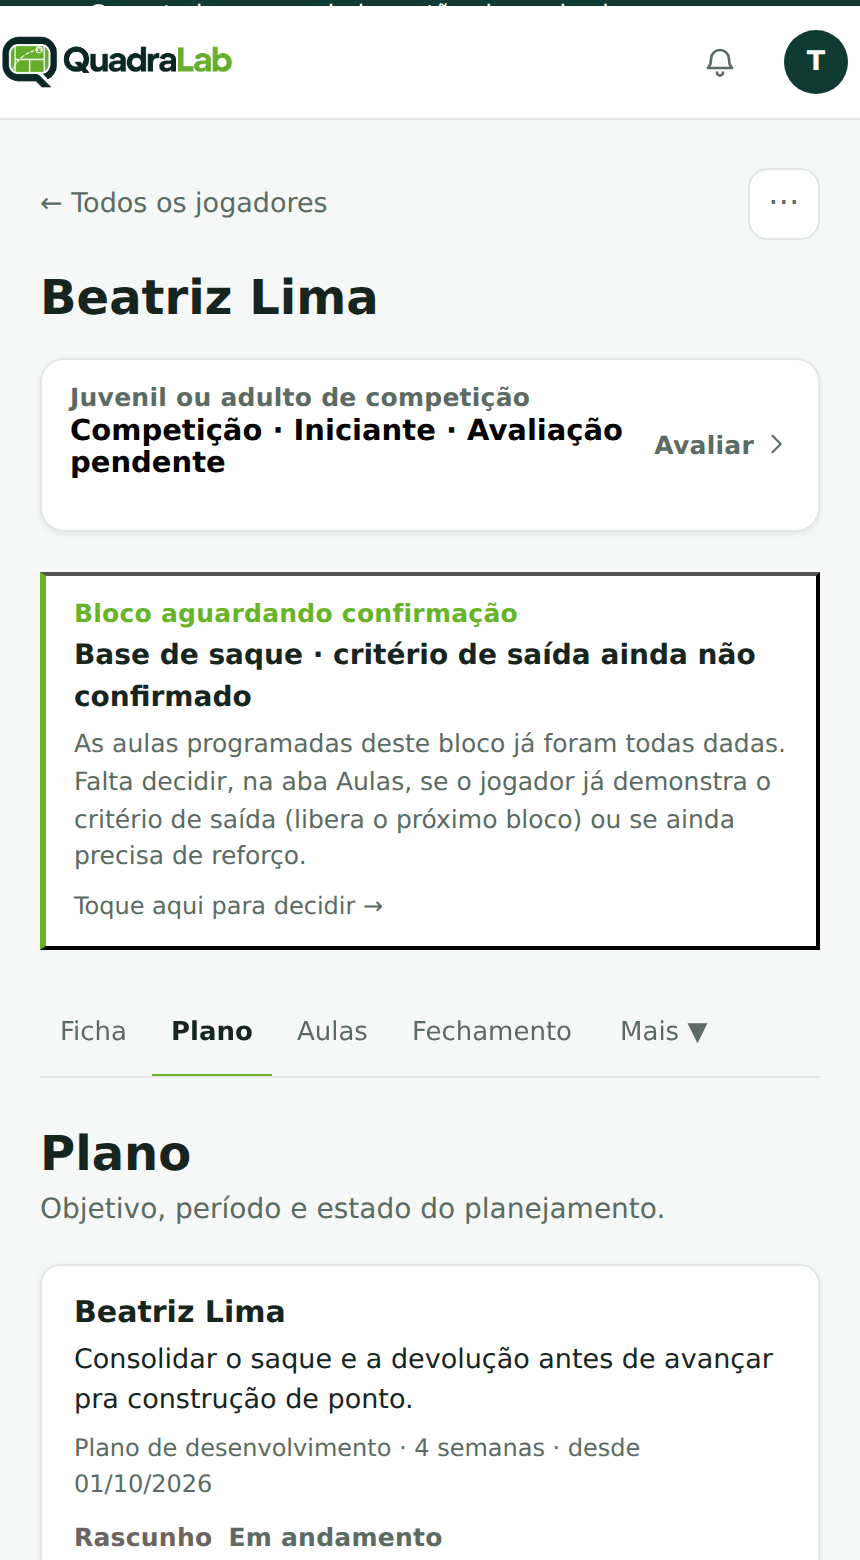
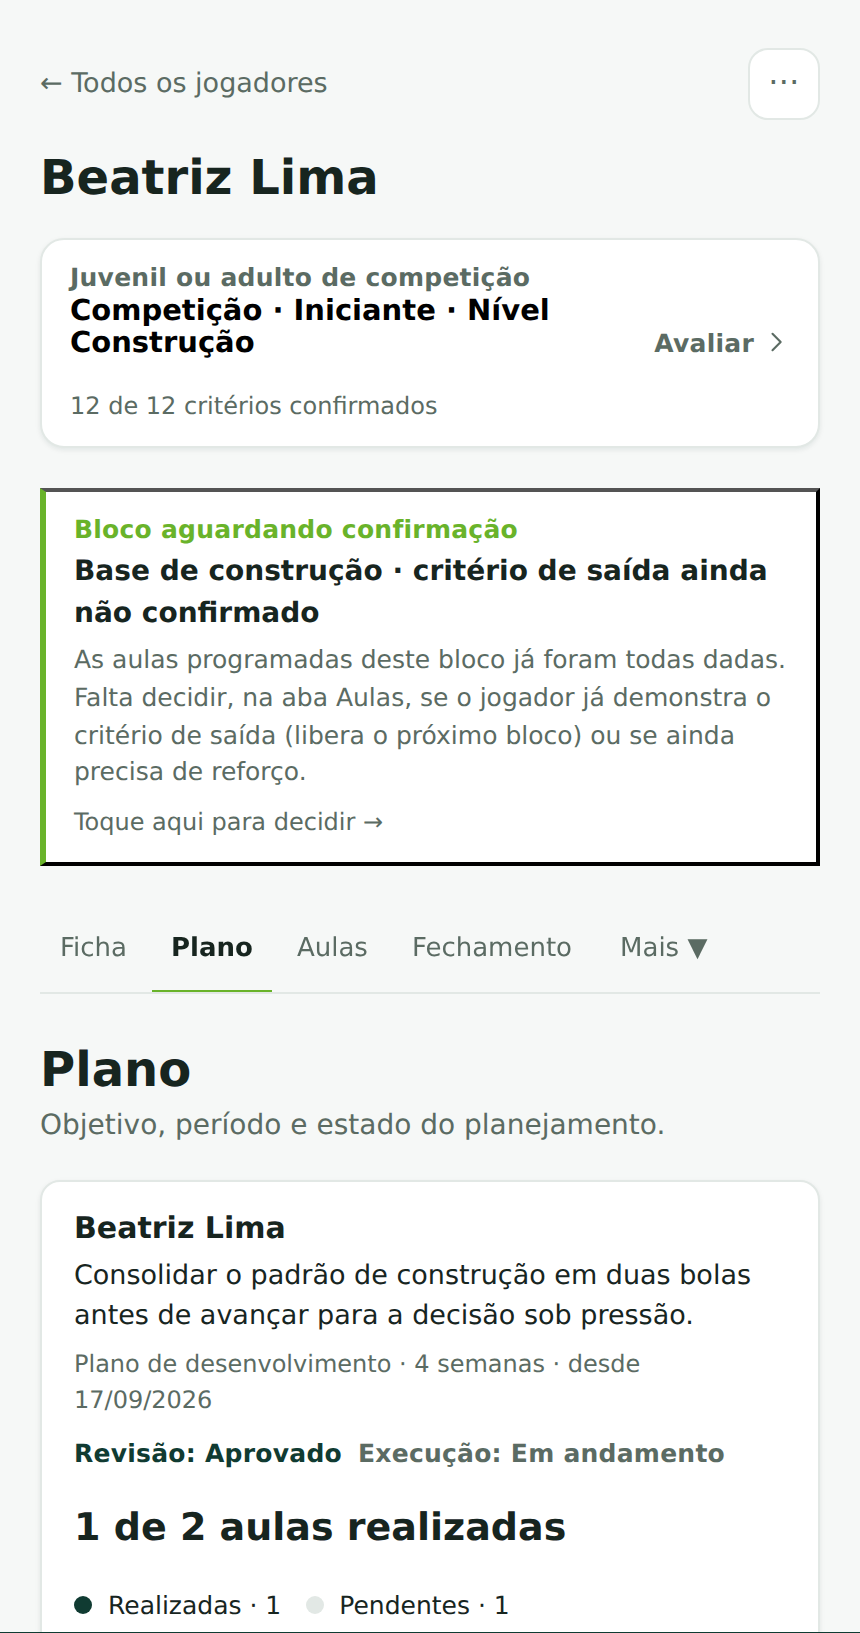
Refina a landing page do QuadraLab para celular
Tela de login dedicada no mobile (fora do fluxo principal, sem duplicar
formulário com o desktop), scroll-margin nas seções pra o cabeçalho fixo
não cobrir destinos de âncora, passos de "como funciona" com número e
título na mesma linha, remove a seção de IA redundante (já coberta nos
recursos) e troca as quatro capturas de demonstração por um exemplo
fictício completo (ficha avaliada, plano aprovado, sessão e relatório de
ciclo), em vez de estados pendentes/incompletos.
Claude-Session: https://claude.ai/code/session_01QcDCcXgViUfc4wZr3ymFfx

diff --git a/autonomo/index.html b/autonomo/index.html
@@ -6211,7 +6211,7 @@ function TelaSessao({ aluno, alunos, setAlunos, setSubaba, papelAtual, uidAtual,
         <div className="flex items-center gap-3 flex-wrap mt-2">
           {plano && todosExerciciosAtuais.length > 0 && (
             <Etiqueta cor={duracaoEstourou ? C.saibro : C.grafite}>
-              {duracaoTotalEstimada} min previstos{duracaoEstourou ? " · acima do disponível (" + duracaoDisponivel + " min)" : ""}
+              {duracaoTotalEstimada} de {duracaoDisponivel} min previstos nos exercícios{duracaoEstourou ? " · acima da duração disponível" : ""}
             </Etiqueta>
           )}
           {estadoSalvo && (
@@ -6242,7 +6242,7 @@ function TelaSessao({ aluno, alunos, setAlunos, setSubaba, papelAtual, uidAtual,
 
       {!aulaAtual && (
         <>
-          <Campo rotulo="Ciclo ativo hoje" nota="O caderno do treinador manda decidir isto antes de entrar na quadra.">
+          <Campo rotulo="Ciclo ativo hoje" nota="Escolha o foco da sessão antes de começar.">
             <Seletor opcoes={ciclos.map((c, i) => ({ v: i, r: `${c.letra} · ${c.nome}` }))} valor={cicloAtivo} aoMudar={setCiclo} />
           </Campo>
           <Campo rotulo="Duração">
@@ -6278,7 +6278,10 @@ function TelaSessao({ aluno, alunos, setAlunos, setSubaba, papelAtual, uidAtual,
       {plano && (
         <div className="mt-7">
           <div className="flex items-center justify-between gap-3 flex-wrap mb-4">
-            <Etiqueta cor={C.quadra}>{exigeLogin ? "Rascunho salvo — sincronizando com a nuvem" : "Rascunho salvo neste aparelho"}</Etiqueta>
+            <Etiqueta cor={estadoSalvo === "erro" ? "#8A2E2E" : C.quadra}>
+              {estadoSalvo === "salvando" ? "Salvando…" : estadoSalvo === "erro" ? "Não foi possível salvar — tentar novamente"
+                : exigeLogin ? "Rascunho salvo na nuvem" : "Rascunho salvo neste aparelho"}
+            </Etiqueta>
             {podeEditar && (
               <button onClick={() => {
                 if (confirm("Isso substitui apenas o rascunho desta sessão ainda não salva, com um novo sorteio — nenhuma aula já registrada é afetada. Gerar uma versão nova agora?")) descartarRascunho();
@@ -8767,8 +8770,8 @@ function TelaPlano({ aluno, alunos, setAlunos, turma, membros, turmas, setTurmas
           {plano.tipo || "Plano do ciclo"}{plano.geradoEm ? " · desde " + new Date(plano.geradoEm).toLocaleDateString("pt-BR") : ""}
         </p>
         <div className="flex gap-2 flex-wrap mb-3">
-          <Etiqueta cor={REVISAO_COR[revisaoAtual]}>{REVISAO_LABEL[revisaoAtual]}</Etiqueta>
-          <Etiqueta cor={C.grafite}>{EXECUCAO_LABEL[execucaoAtual]}</Etiqueta>
+          <Etiqueta cor={REVISAO_COR[revisaoAtual]}>Revisão: {REVISAO_LABEL[revisaoAtual]}</Etiqueta>
+          <Etiqueta cor={C.grafite}>Execução: {EXECUCAO_LABEL[execucaoAtual]}</Etiqueta>
         </div>
         <ResumoAulasPlano aulas={aulas} status={status} />
         {estadoSalvo && (
@@ -9543,42 +9546,47 @@ function MotivoQuadra({ opacidade = 0.14 }) {
 }
 
 /* Cada item abaixo descreve só o que já existe e funciona no app —
-   nunca algo planejado ou ainda não pronto. */
+   nunca algo planejado ou ainda não pronto. Títulos e textos evitam
+   repetir o que já aparece nas legendas das capturas (CAPTURAS_DEMONSTRACAO,
+   abaixo) e nos recursos complementares (RECURSOS_QUADRALAB) — cada
+   lista cobre um ângulo diferente do mesmo fluxo. */
 const PASSOS_COMO_FUNCIONA = [
-  { numero: "01", Icone: IconeJogadores, titulo: "Cadastrar jogador",
-    texto: "Crie a ficha do jogador com os dados essenciais para começar." },
-  { numero: "02", Icone: IconeLista, titulo: "Registrar avaliação",
-    texto: "Observe e registre o nível técnico e tático de cada golpe, conforme a metodologia." },
-  { numero: "03", Icone: IconeAgenda, titulo: "Preparar planejamento",
-    texto: "Gere o ciclo de aulas a partir da ficha, revise e confirme antes de usar." },
-  { numero: "04", Icone: IconeGrafico, titulo: "Conduzir e registrar aula",
-    texto: "Siga os exercícios da sessão e registre o que foi feito ao final." },
+  { numero: "01", titulo: "Cadastre o jogador",
+    texto: "Dados essenciais para começar o acompanhamento." },
+  { numero: "02", titulo: "Registre sua avaliação",
+    texto: "Nível técnico e tático de cada golpe, conforme a metodologia." },
+  { numero: "03", titulo: "Prepare e revise o planejamento",
+    texto: "Gere o ciclo a partir da ficha e aprove antes de usar." },
+  { numero: "04", titulo: "Conduza e registre a aula",
+    texto: "Siga a sessão e registre o que foi feito ao final." },
 ];
 
+/* Só o que ainda não foi dito nas capturas nem nas etapas — catálogo,
+   ajustes livres e o papel da IA (antes uma seção inteira própria,
+   agora um item a mais aqui, pra não repetir um bloco de página só
+   pra isso). */
 const RECURSOS_QUADRALAB = [
-  { Icone: IconeJogadores, titulo: "Ficha de cada jogador",
-    texto: "Rotina, nível por golpe e avaliação do treinador, sempre à mão." },
-  { Icone: IconeAgenda, titulo: "Planejamento das aulas",
-    texto: "Monte o ciclo, defina o foco e acompanhe o progresso das aulas." },
   { Icone: IconeLista, titulo: "Catálogo de exercícios",
     texto: "Consulte exercícios prontos pra montar a sessão rapidamente." },
   { Icone: IconeGrafico, titulo: "Ajustes do treinador",
-    texto: "Troque, adicione ou remova exercícios da sessão quando quiser." },
-  { Icone: IconeInicio, titulo: "Registro das aulas",
-    texto: "Marque o que foi feito e o que ficou pendente, aula a aula." },
-  { Icone: IconeRelogio, titulo: "Histórico e relatórios",
-    texto: "Feche o ciclo com um relatório e use-o de base pro próximo planejamento." },
+    texto: "Troque, adicione ou remova exercícios quando quiser, sem travar o planejamento." },
+  { Icone: IconeIA, titulo: "Apoio da IA",
+    texto: "A IA sugere um planejamento com base na ficha — você revisa e aprova antes de usar." },
 ];
 
+/* Exemplo fictício e coerente (Beatriz Lima, conta de demonstração),
+   mostrando os quatro estados que o treinador de verdade vê no dia a
+   dia já resolvidos — ficha avaliada, plano aprovado, sessão pronta pra
+   quadra, aula registrada — não telas vazias, pendentes ou bloqueadas. */
 const CAPTURAS_DEMONSTRACAO = [
-  { src: "assets/demo-ficha.png", titulo: "Ficha do jogador",
-    texto: "Rotina, nível por golpe e avaliação do treinador num só lugar." },
-  { src: "assets/demo-plano.png", titulo: "Planejamento do ciclo",
-    texto: "Defina objetivo, período e acompanhe o progresso das aulas do ciclo." },
-  { src: "assets/demo-sessao.png", titulo: "Exercícios da sessão",
-    texto: "Selecione exercícios do catálogo e organize a aula de forma rápida e prática." },
-  { src: "assets/demo-relatorio.png", titulo: "Relatório de aula",
-    texto: "Feche o ciclo com os critérios observados e o que ainda está em aberto." },
+  { src: "assets/demo-ficha.png", titulo: "Conheça cada jogador",
+    texto: "Reúna avaliações e objetivos para orientar o planejamento." },
+  { src: "assets/demo-plano.png", titulo: "Planeje suas próximas aulas",
+    texto: "Organize o ciclo e revise os exercícios antes de começar." },
+  { src: "assets/demo-sessao.png", titulo: "Leve a sessão para a quadra",
+    texto: "Consulte a sequência e os detalhes do treino." },
+  { src: "assets/demo-relatorio.png", titulo: "Registre para dar continuidade",
+    texto: "Use suas observações para orientar as próximas aulas." },
 ];
 
 const FAQ_QUADRALAB = [
@@ -9637,17 +9645,36 @@ function LightboxCaptura({ captura, aoFechar }) {
    Só aparece pra quem não está autenticado — ver App(), mais abaixo. */
 function TelaVendas({ aoEntrar }) {
   const [capturaAberta, setCapturaAberta] = useState(null);
+  const [telaLoginAberta, setTelaLoginAberta] = useState(false);
+  const [ehDesktop, setEhDesktop] = useState(() => typeof window !== "undefined" ? window.innerWidth >= 860 : true);
+  useEffect(() => {
+    function aoRedimensionar() { setEhDesktop(window.innerWidth >= 860); }
+    window.addEventListener("resize", aoRedimensionar);
+    return () => window.removeEventListener("resize", aoRedimensionar);
+  }, []);
 
   function irParaSecao(id) {
     const el = document.getElementById(id);
     if (el) el.scrollIntoView({ behavior: "smooth", block: "start" });
   }
-  function abrirLogin() {
-    irParaSecao("qlab-login");
+  function focarCampoLogin() {
     setTimeout(() => {
       const campo = document.getElementById("qlab-login-email");
       if (campo) campo.focus();
     }, 420);
+  }
+  /* No celular o formulário fica fora do fluxo principal: "Entrar" abre
+     uma tela dedicada por cima da página, sem navegar — ao fechar, a
+     rolagem volta pro mesmo ponto. No desktop o cartão já fica visível
+     ao lado do pitch, então só rolamos até ele. */
+  function abrirLogin() {
+    if (ehDesktop) {
+      irParaSecao("qlab-login");
+      focarCampoLogin();
+    } else {
+      setTelaLoginAberta(true);
+      focarCampoLogin();
+    }
   }
   function irParaCadastro() {
     window.location.href = "cadastro-individual.html";
@@ -9659,7 +9686,12 @@ function TelaVendas({ aoEntrar }) {
         .qlab-vendas * { box-sizing: border-box; }
         .qlab-vendas a { color: inherit; }
         .qlab-header { position: sticky; top: 0; z-index: 30; background: #fff; border-bottom: 1px solid ${C.linha};
-          display: flex; align-items: center; justify-content: space-between; gap: 12px; padding: 12px 20px; }
+          display: flex; align-items: center; justify-content: space-between; gap: 8px; padding: 12px 20px; }
+        @media (max-width: 420px) {
+          .qlab-header { padding: 10px 14px; gap: 6px; }
+          .qlab-header .qlab-btn { padding: 9px 13px; font-size: 13px; }
+        }
+        .qlab-cartao-login { scroll-margin-top: 76px; }
         .qlab-nav { display: none; gap: 28px; }
         .qlab-nav a { font-family: ${ARCH}; font-size: 14px; font-weight: 600; color: ${C.tinta}; text-decoration: none; }
         .qlab-nav a:hover { color: ${C.quadra}; }
@@ -9696,7 +9728,19 @@ function TelaVendas({ aoEntrar }) {
           .qlab-motivo { width: 340px; height: 340px; right: -40px; bottom: -40px; }
         }
 
-        .qlab-secao { padding: 52px 20px; max-width: 1080px; margin: 0 auto; }
+        /* No celular o formulário de login só existe (via React) como
+           tela dedicada, renderizada fora da seção hero — assim nunca
+           fica presa na pilha de empilhamento do cabeçalho fixo. No
+           desktop ele é renderizado normalmente ao lado do pitch. */
+        .qlab-login-overlay-mobile { position: fixed; inset: 0; z-index: 70; background: rgba(10,20,16,.92);
+          display: flex; align-items: flex-start; justify-content: center; overflow-y: auto; padding: 56px 16px 40px; }
+        .qlab-login-overlay-mobile > div { width: 100%; max-width: 420px; position: relative; }
+        .qlab-login-overlay-fechar { position: fixed; top: 16px; right: 16px; background: rgba(255,255,255,.12);
+          border: 1px solid rgba(255,255,255,.3); color: #fff; border-radius: 999px; width: 40px; height: 40px;
+          display: flex; align-items: center; justify-content: center; cursor: pointer; z-index: 71; }
+        .qlab-login-overlay-fechar:focus-visible { outline: 2px solid #fff; outline-offset: 2px; }
+
+        .qlab-secao { padding: 52px 20px; max-width: 1080px; margin: 0 auto; scroll-margin-top: 76px; }
         .qlab-secao-cabecalho { text-align: center; max-width: 620px; margin: 0 auto 36px; }
         .qlab-secao-eyebrow { display: inline-flex; align-items: center; gap: 10px; font-family: ${ARCH}; font-size: 12px;
           font-weight: 700; letter-spacing: .08em; text-transform: uppercase; color: ${C.saibro}; margin: 0 0 12px; }
@@ -9708,11 +9752,11 @@ function TelaVendas({ aoEntrar }) {
         .qlab-passos { display: grid; grid-template-columns: 1fr; gap: 24px; }
         @media (min-width: 560px) { .qlab-passos { grid-template-columns: repeat(2, 1fr); gap: 26px; } }
         @media (min-width: 980px) { .qlab-passos { grid-template-columns: repeat(4, 1fr); gap: 24px; } }
+        .qlab-passo-cabecalho { display: flex; align-items: center; gap: 10px; margin-bottom: 6px; }
         .qlab-passo-numero { font-family: ${ARCH}; font-size: 13px; font-weight: 700; color: ${C.saibro};
-          background: ${C.papel}; border: 1px solid ${C.linha}; border-radius: 999px; width: 30px; height: 30px;
-          display: inline-flex; align-items: center; justify-content: center; margin-bottom: 14px; }
-        .qlab-passo-icone { color: ${C.quadra}; margin-bottom: 10px; }
-        .qlab-passo h3 { font-family: ${ARCH}; font-size: 16.5px; font-weight: 700; color: ${C.tinta}; margin: 0 0 6px; }
+          background: ${C.papel}; border: 1px solid ${C.linha}; border-radius: 999px; width: 28px; height: 28px;
+          display: inline-flex; align-items: center; justify-content: center; flex-shrink: 0; }
+        .qlab-passo h3 { font-family: ${ARCH}; font-size: 16.5px; font-weight: 700; color: ${C.tinta}; margin: 0; }
         .qlab-passo p { font-family: ${SERIF}; font-size: 14px; color: ${C.grafite}; margin: 0; line-height: 1.5; }
 
         .qlab-capturas { display: grid; grid-template-columns: 1fr; gap: 22px; align-items: start; }
@@ -9740,14 +9784,6 @@ function TelaVendas({ aoEntrar }) {
         .qlab-recurso-cartao .qlab-icone { color: ${C.quadra}; margin-bottom: 10px; }
         .qlab-recurso-cartao h3 { font-family: ${ARCH}; font-size: 15px; font-weight: 700; color: ${C.tinta}; margin: 0 0 6px; }
         .qlab-recurso-cartao p { font-family: ${SERIF}; font-size: 13.5px; color: ${C.grafite}; margin: 0; line-height: 1.5; }
-
-        .qlab-ia { background: ${C.quadra}; color: #fff; border-radius: 20px; padding: 32px 26px;
-          display: flex; flex-direction: column; gap: 16px; align-items: flex-start; max-width: 1080px; margin: 0 auto; }
-        @media (min-width: 760px) { .qlab-ia { flex-direction: row; align-items: center; gap: 28px; padding: 40px 44px; } }
-        .qlab-ia-icone { width: 48px; height: 48px; border-radius: 12px; background: rgba(255,255,255,.1); color: ${C.saibro};
-          display: flex; align-items: center; justify-content: center; flex-shrink: 0; }
-        .qlab-ia h2 { font-family: ${ARCH}; font-size: 22px; font-weight: 800; color: #fff; margin: 0 0 8px; }
-        .qlab-ia p { font-family: ${SERIF}; font-size: 15px; color: #D9E3DE; margin: 0; max-width: 560px; line-height: 1.55; }
 
         .qlab-faq-lista { display: flex; flex-direction: column; gap: 10px; }
         .qlab-faq-item { background: #fff; border: 1px solid ${C.linha}; border-radius: 10px; padding: 4px 18px; }
@@ -9804,15 +9840,35 @@ function TelaVendas({ aoEntrar }) {
               </button>
             </div>
           </div>
-          <CartaoLogin aoEntrar={aoEntrar} />
+          {ehDesktop && (
+            <div className="qlab-hero-login">
+              <CartaoLogin aoEntrar={aoEntrar} />
+            </div>
+          )}
         </div>
       </section>
+
+      {/* No celular o cartão de login só existe nesta tela dedicada, fora
+          da pilha de empilhamento do cabeçalho/hero — nunca os dois ao
+          mesmo tempo, pra não duplicar o id do formulário. */}
+      {!ehDesktop && telaLoginAberta && (
+        <div role="dialog" aria-modal="true" aria-label="Entrar na plataforma" className="qlab-login-overlay-mobile"
+          onClick={() => setTelaLoginAberta(false)}>
+          <button type="button" onClick={() => setTelaLoginAberta(false)} aria-label="Fechar"
+            className="qlab-login-overlay-fechar">
+            <IconeFechar tam={20} />
+          </button>
+          <div onClick={(e) => e.stopPropagation()}>
+            <CartaoLogin aoEntrar={aoEntrar} />
+          </div>
+        </div>
+      )}
 
       <section className="qlab-secao qlab-secao-alt" id="qlab-demonstracao">
         <div className="qlab-secao-cabecalho">
           <p className="qlab-secao-eyebrow">Plataforma intuitiva e prática</p>
           <h2>Veja a plataforma por dentro.</h2>
-          <p className="qlab-secao-sub">Capturas reais da plataforma, com dados fictícios.</p>
+          <p className="qlab-secao-sub">Exemplo com dados fictícios.</p>
         </div>
         <div className="qlab-capturas">
           {CAPTURAS_DEMONSTRACAO.map((c, i) => (
@@ -9837,9 +9893,10 @@ function TelaVendas({ aoEntrar }) {
         <div className="qlab-passos">
           {PASSOS_COMO_FUNCIONA.map((p, i) => (
             <div key={i} className="qlab-passo">
-              <span className="qlab-passo-numero">{p.numero}</span>
-              <div className="qlab-passo-icone"><p.Icone tam={26} /></div>
-              <h3>{p.titulo}</h3>
+              <div className="qlab-passo-cabecalho">
+                <span className="qlab-passo-numero">{p.numero}</span>
+                <h3>{p.titulo}</h3>
+              </div>
               <p>{p.texto}</p>
             </div>
           ))}
@@ -9858,16 +9915,6 @@ function TelaVendas({ aoEntrar }) {
               <p>{r.texto}</p>
             </div>
           ))}
-        </div>
-      </section>
-
-      <section className="qlab-secao" aria-label="Papel da inteligência artificial">
-        <div className="qlab-ia">
-          <div className="qlab-ia-icone"><IconeIA tam={24} /></div>
-          <div>
-            <h2>A IA sugere. Você decide.</h2>
-            <p>Use as sugestões como apoio, revise o conteúdo e adapte o planejamento à realidade de cada jogador.</p>
-          </div>
         </div>
       </section>
 
@@ -11834,6 +11881,16 @@ function App() {
   const [editandoFicha, setEditandoFicha] = useState(false);
   const [opcoesJogadorAberto, setOpcoesJogadorAberto] = useState(false);
   const [maisSubabaAberto, setMaisSubabaAberto] = useState(false);
+  /* O botão "Mais" muda de rótulo pro nome da aba ativa (ex.: "Sessão de
+     hoje") quando uma delas está selecionada — nomes mais longos que
+     "Mais" podem passar da largura visível da barra com rolagem
+     horizontal, e o navegador não rola sozinho pra revelar o botão.
+     Esse efeito rola a barra até o próprio botão sempre que a aba ativa
+     muda, pra ele nunca ficar cortado na borda da tela. */
+  const maisBotaoRef = useRef(null);
+  useEffect(() => {
+    if (maisBotaoRef.current) maisBotaoRef.current.scrollIntoView({ behavior: "smooth", inline: "end", block: "nearest" });
+  }, [subaba]);
   const [manualAberto, setManualAberto] = useState(false);
   const manualRef = useRef(null);
   const manualAbriuEm = useRef(0);
@@ -12470,7 +12527,7 @@ function App() {
                         {t.r}
                       </button>
                     ))}
-                    <button onClick={() => setMaisSubabaAberto((v) => !v)} aria-haspopup="true" aria-expanded={maisSubabaAberto}
+                    <button ref={maisBotaoRef} onClick={() => setMaisSubabaAberto((v) => !v)} aria-haspopup="true" aria-expanded={maisSubabaAberto}
                       style={{ fontFamily: ARCH, fontSize: 13, fontWeight: maisAtivo ? 700 : 500, padding: "10px 12px", cursor: "pointer", minHeight: 44,
                         background: "none", border: "none", borderBottom: "2px solid " + (maisAtivo ? C.saibro : "transparent"),
                         color: maisAtivo ? C.tinta : C.grafite, marginBottom: -1, flexShrink: 0, whiteSpace: "nowrap" }}>
